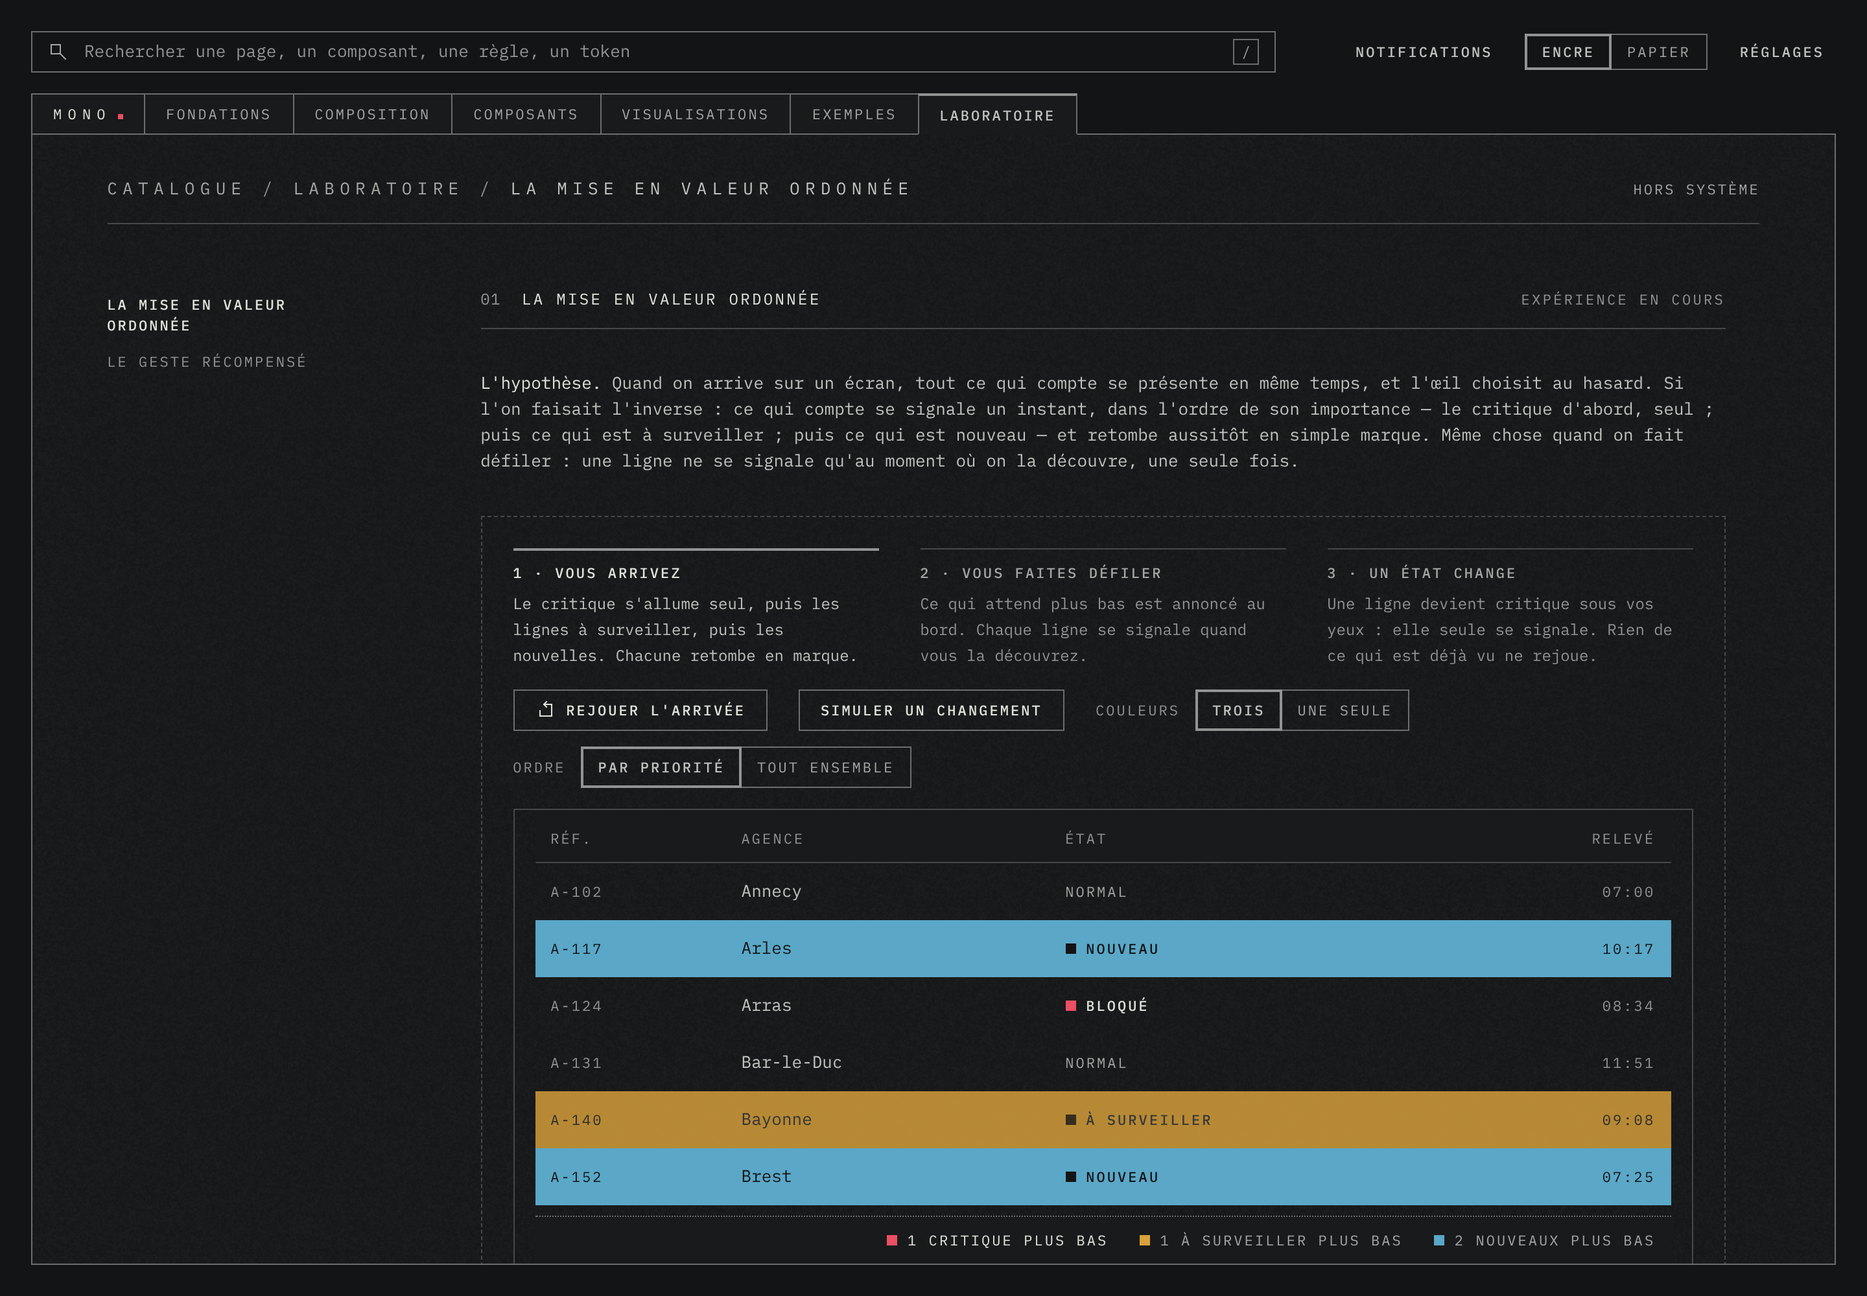
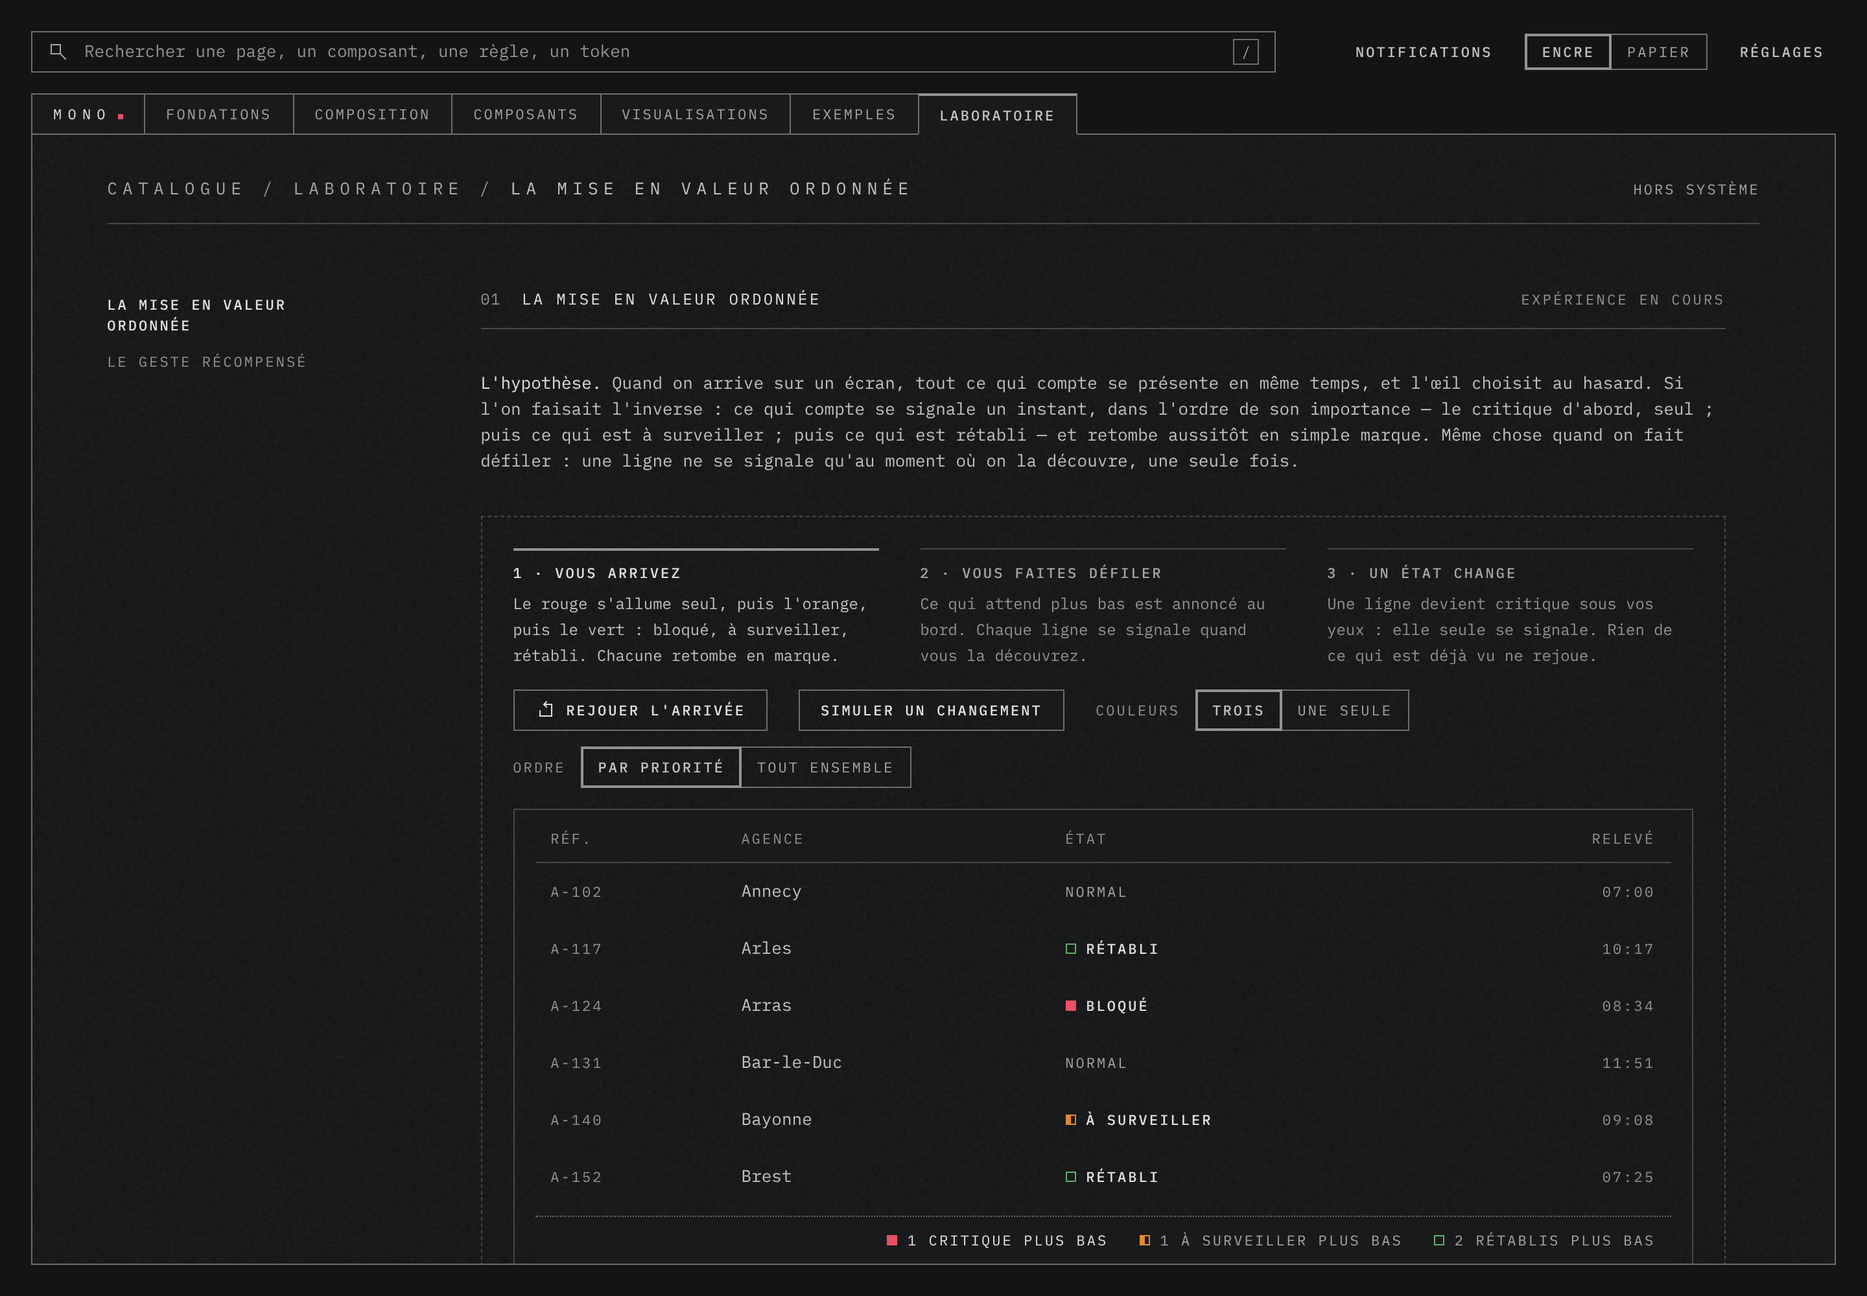
Laboratoire, expérience 01 : rouge, orange, vert (D-097)
Le langage du feu tricolore ; le troisième niveau devient « rétabli ». La forme
double la couleur dans tous les réglages. Niveaux espacés d'une seconde.

Claude-Session: https://claude.ai/code/session_01Jzhjh4Bm92CMpkoPPaRiQr

Changed region(s): [[0.2812, 0.837, 0.9062, 0.93], [0.2812, 0.713, 0.9062, 0.775], [0.2812, 0.465, 0.4688, 0.527]]

diff --git a/catalogue/laboratoire.html b/catalogue/laboratoire.html
@@ -35,12 +35,12 @@
 
         <section class="cat-section" id="mise-en-valeur" data-search="rubrique">
           <h2 class="c-section-head"><span class="c-section-head__num">01</span><span>La mise en valeur ordonnée</span><span class="c-section-head__aside">Expérience en cours</span></h2>
-          <p><span class="t-strong">L'hypothèse.</span> Quand on arrive sur un écran, tout ce qui compte se présente en même temps, et l'œil choisit au hasard. Si l'on faisait l'inverse : ce qui compte se signale un instant, dans l'ordre de son importance — le critique d'abord, seul ; puis ce qui est à surveiller ; puis ce qui est nouveau — et retombe aussitôt en simple marque. Même chose quand on fait défiler : une ligne ne se signale qu'au moment où on la découvre, une seule fois.</p>
+          <p><span class="t-strong">L'hypothèse.</span> Quand on arrive sur un écran, tout ce qui compte se présente en même temps, et l'œil choisit au hasard. Si l'on faisait l'inverse : ce qui compte se signale un instant, dans l'ordre de son importance — le critique d'abord, seul ; puis ce qui est à surveiller ; puis ce qui est rétabli — et retombe aussitôt en simple marque. Même chose quand on fait défiler : une ligne ne se signale qu'au moment où on la découvre, une seule fois.</p>
 
           <div class="cat-demo">
             <div class="x-stage" id="x1" data-colors="trois" data-order="priorite">
               <ol class="x-steps">
-                <li class="is-on"><b>1 · Vous arrivez</b>Le critique s'allume seul, puis les lignes à surveiller, puis les nouvelles. Chacune retombe en marque.</li>
+                <li class="is-on"><b>1 · Vous arrivez</b>Le rouge s'allume seul, puis l'orange, puis le vert : bloqué, à surveiller, rétabli. Chacune retombe en marque.</li>
                 <li><b>2 · Vous faites défiler</b>Ce qui attend plus bas est annoncé au bord. Chaque ligne se signale quand vous la découvrez.</li>
                 <li><b>3 · Un état change</b>Une ligne devient critique sous vos yeux : elle seule se signale. Rien de ce qui est déjà vu ne rejoue.</li>
               </ol>
@@ -63,10 +63,10 @@
 
           <dl class="x-research">
             <dt>État de l'art</dt><dd>Le <a href="https://www.oreilly.com/library/view/ajax-design-patterns/0596101805/ch16.html">« fondu jaune »</a> des débuts d'Ajax fait déjà cela pour un changement : une teinte vive qui retombe, le temps que l'œil se pose. La pratique le recommande ; je n'ai pas trouvé d'étude contrôlée qui en mesure l'effet.</dd>
-            <dt>Couleur par priorité</dt><dd>Les salles de contrôle (<a href="https://blog.isa.org/the-high-performance-hmi">interfaces « haute performance »</a>) travaillent sur fond gris et réservent la couleur vive à l'anormal, avec une teinte par niveau d'alarme. Les sources consultées ne s'accordent pas sur les teintes ; l'ordre retenu ici — rouge, ambre, bleu froid — est un choix, pas une norme.</dd>
+            <dt>Couleur par priorité</dt><dd>Les salles de contrôle (<a href="https://blog.isa.org/the-high-performance-hmi">interfaces « haute performance »</a>) travaillent sur fond gris et réservent la couleur vive à l'anormal, avec une teinte par niveau d'alarme. Les sources consultées ne s'accordent pas sur les teintes de chaque niveau. L'essai prend le langage le plus répandu, celui du feu tricolore : rouge pour ce qui bloque, orange pour ce qui est à surveiller, vert pour ce qui est rétabli.</dd>
             <dt>Ce qui est nouveau ici</dt><dd>L'ordre dans le temps. Les teintes ne s'allument pas ensemble : la priorité se lit d'abord par qui passe en premier. Et l'annonce au bord de ce qui attend hors de vue, dans le même ordre.</dd>
-            <dt>Ce qu'on regarde</dt><dd>Trouve-t-on le critique plus vite « par priorité » que « tout ensemble » ? Trois couleurs aident-elles, ou l'ordre et la forme (plein, à demi, contour) suffisent-ils avec une seule ? À quel moment le flash répété devient-il une gêne ?</dd>
-            <dt>Garde-fous</dt><dd>Un flash par ligne, jamais rejoué ; pas plus d'un par seconde et par niveau ; aucun flash si le système demande de réduire les animations — les marques s'affichent d'emblée. La couleur est toujours doublée d'un mot.</dd>
+            <dt>Ce qu'on regarde</dt><dd>Trouve-t-on le critique plus vite « par priorité » que « tout ensemble » ? Trois couleurs aident-elles, ou l'ordre et la forme suffisent-ils avec une seule ? Le vert, une bonne nouvelle, mérite-t-il d'être signalé ou distrait-il du reste ? À quel moment le flash répété devient-il une gêne ?</dd>
+            <dt>Garde-fous</dt><dd>Un flash par ligne, jamais rejoué ; pas plus d'un par seconde et par niveau ; aucun flash si le système demande de réduire les animations — les marques s'affichent d'emblée. La couleur est toujours doublée d'un mot et d'une forme — plein, à demi, contour — car une personne sur douze environ distingue mal le rouge du vert.</dd>
             <dt>Règle enfreinte</dt><dd>« Une seule couleur ». C'est l'objet de l'essai ; le réglage « Une seule » montre la version qui resterait dans la règle.</dd>
           </dl>
         </section>

diff --git a/catalogue/assets/labo.css b/catalogue/assets/labo.css
@@ -2,8 +2,9 @@
    Les classes .x- et les couleurs --x- vivent dans cette page et n'en sortent pas : une expérience
    peut enfreindre une règle de MONO (ici : plus d'une couleur), c'est même son objet. Pour entrer dans
    le système, une idée passe par docs/decisions.md et se réécrit avec les rôles de tokens.css. */
-:root { --x-ink: #131415; --x-p1: var(--signal); --x-p2: #d9a13b; --x-p3: #5aa7c7; --x-on-p1: var(--on-signal); }
-:root[data-theme="papier"] { --x-p2: #c98a1b; --x-p3: #3f8fb0; }
+/* Le langage du feu tricolore : rouge, orange, vert. */
+:root { --x-ink: #131415; --x-p1: var(--signal); --x-p2: #e08a2c; --x-p3: #5fae6a; --x-on-p1: var(--on-signal); }
+:root[data-theme="papier"] { --x-p2: #c9700f; --x-p3: #3f8f52; }
 .x-stage { display: flex; flex-direction: column; gap: var(--space-4); min-width: 0; }
 .x-bar { display: flex; flex-wrap: wrap; align-items: center; gap: var(--space-3) var(--space-5); }
 .x-bar__group { display: inline-flex; align-items: center; gap: var(--space-3); }
@@ -30,9 +31,10 @@
 .x-state { display: inline-flex; align-items: center; gap: var(--space-2); text-transform: uppercase; letter-spacing: var(--track-caps); font-size: var(--text-micro); color: var(--fg-soft); }
 .x-row[data-p] .x-state { color: var(--fg-strong); font-weight: var(--weight-medium); }
 .x-row[data-p] .x-state::before { content: ''; width: 8px; height: 8px; background: var(--x-c); }
-/* En une seule couleur, la priorité se dit encore par la forme : plein, à demi, contour. */
-.x-stage[data-colors="une"] .x-row[data-p="2"] .x-state::before { background: linear-gradient(90deg, var(--x-c) 50%, transparent 50%); outline: 1px solid var(--x-c); outline-offset: -1px; }
-.x-stage[data-colors="une"] .x-row[data-p="3"] .x-state::before { background: none; outline: 1px solid var(--x-c); outline-offset: -1px; }
+/* La forme double toujours la couleur — plein, à demi, contour — pour qui confond le rouge et le vert,
+   et pour le réglage « une seule ». */
+.x-row[data-p="2"] .x-state::before { background: linear-gradient(90deg, var(--x-c) 50%, transparent 50%); outline: 1px solid var(--x-c); outline-offset: -1px; }
+.x-row[data-p="3"] .x-state::before { background: none; outline: 1px solid var(--x-c); outline-offset: -1px; }
 /* Tant qu'une ligne n'a pas été « vue », sa marque attend ; le flash la révèle, puis elle reste. */
 .x-row[data-p]:not(.x-seen):not(.x-flash) .x-state { opacity: 0; }
 @keyframes x-fill { 0%, 55% { background-color: var(--x-c); color: var(--x-on); } 100% { background-color: transparent; } }
@@ -44,7 +46,8 @@
 /* Ce qui attend hors de vue s'annonce au bord, dans l'ordre de priorité. */
 .x-below { position: sticky; bottom: 0; display: flex; gap: var(--space-5); justify-content: flex-end; padding: var(--space-2) var(--space-3); background: var(--bg); border-top: var(--hairline) dotted var(--line-strong); text-transform: uppercase; letter-spacing: var(--track-caps); font-size: var(--text-micro); color: var(--fg-soft); }
 .x-below:empty { display: none; }
-.x-below span { display: inline-flex; align-items: center; gap: var(--space-2); } .x-below span::before { content: ''; width: 8px; height: 8px; background: var(--x-c); }
+.x-below span { display: inline-flex; align-items: center; gap: var(--space-2); } .x-below span::before { content: ''; width: 8px; height: 8px; background: var(--x-c); outline: 1px solid var(--x-c); outline-offset: -1px; }
+.x-below [data-p="2"]::before { background: linear-gradient(90deg, var(--x-c) 50%, transparent 50%); } .x-below [data-p="3"]::before { background: none; }
 .x-below [data-p="1"] { --x-c: var(--x-p1); color: var(--fg-strong); } .x-below [data-p="2"] { --x-c: var(--x-p2); } .x-below [data-p="3"] { --x-c: var(--x-p3); }
 .x-stage[data-colors="une"] .x-below [data-p] { --x-c: var(--x-p1); }
 .x-read { display: flex; flex-wrap: wrap; gap: var(--space-2) var(--space-6); text-transform: uppercase; letter-spacing: var(--track-caps); font-size: var(--text-micro); color: var(--fg-muted); } .x-read b { color: var(--fg-strong); font-weight: var(--weight-medium); }

diff --git a/catalogue/assets/search-index.js b/catalogue/assets/search-index.js
@@ -203,7 +203,7 @@ window.MonoSearchIndex = {"pages":[["index.html","Présentation"],["fondations.h
 {"p":4,"id":"cretes","y":"rubrique","t":"Crêtes","c":"","s":"","k":".c-section-head .c-section-head__aside .c-section-head__num .v-figure .v-figure__caption .v-figure__source .v-figure__title","x":"En un an, la pointe d’appels est passée du matin à l’après-midi Appels par heure, un profil par mois Source : données de démonstration Une courbe par rangée, chacune masquant la précédente. On ne lit pas des valeurs, on lit un relief : où est le sommet, comment il se déplace. Douze rangées ou plus, là où douze courbes superposées seraient illisibles. La dernière rangée est en clair ; son sommet porte le signal."},
 {"p":4,"id":"frise","y":"rubrique","t":"Frise","c":"","s":"","k":".c-section-head .c-section-head__aside .c-section-head__num .v-figure .v-figure__caption .v-figure__source .v-figure__title","x":"La plupart des agences tiennent entre quatre et huit millions Primes par agence — un trait par agence Source : données de démonstration Chaque valeur est un trait sur une règle, comme sur une étiquette technique. On voit les amas, les trous et les isolés — ce qu'une moyenne ou un histogramme cache. La médiane est entre crochets ; un seul trait porte le signal."},
 {"p":4,"id":"tendance","y":"rubrique","t":"Tendance","c":"","s":"","k":".c-section-head .c-section-head__aside .c-section-head__num .c-table","x":"Branche Douze mois Indice Non-vie 115 Marché 105 Vie 62 Une courbe sans axe ni chiffre, à la hauteur d'une ligne de texte. Elle donne l'allure ; la valeur est dans la colonne voisine."},
-{"p":5,"id":"mise-en-valeur","y":"rubrique","t":"La mise en valeur ordonnée","c":"","s":"","k":".c-button .c-icon .c-section-head .c-section-head__aside .c-section-head__num .c-segmented .c-segmented__item .t-strong","x":"L'hypothèse. Quand on arrive sur un écran, tout ce qui compte se présente en même temps, et l'œil choisit au hasard. Si l'on faisait l'inverse : ce qui compte se signale un instant, dans l'ordre de son importance — le critique d'abord, seul ; puis ce qui est à surveiller ; puis ce qui est nouveau — et retombe aussitôt en simple marque. Même chose quand on fait défiler : une ligne ne se signale qu'au moment où on la d"},
+{"p":5,"id":"mise-en-valeur","y":"rubrique","t":"La mise en valeur ordonnée","c":"","s":"","k":".c-button .c-icon .c-section-head .c-section-head__aside .c-section-head__num .c-segmented .c-segmented__item .t-strong","x":"L'hypothèse. Quand on arrive sur un écran, tout ce qui compte se présente en même temps, et l'œil choisit au hasard. Si l'on faisait l'inverse : ce qui compte se signale un instant, dans l'ordre de son importance — le critique d'abord, seul ; puis ce qui est à surveiller ; puis ce qui est rétabli — et retombe aussitôt en simple marque. Même chose quand on fait défiler : une ligne ne se signale qu'au moment où on la d"},
 {"p":5,"id":"geste-recompense","y":"rubrique","t":"Le geste récompensé","c":"","s":"","k":".c-button .c-icon .c-section-head .c-section-head__aside .c-section-head__num .c-segmented .c-segmented__item .t-strong","x":"L'hypothèse. Une interface sobre peut encore faire plaisir à manier. Chaque geste qui aboutit — cocher, arriver au bout d'un texte, ouvrir une rubrique, tout finir — reçoit en retour un petit mouvement net, plus généreux que le geste ne l'exige, mais bref, typographique et sans couleur. Et la récompense s'use : répétée, elle s'abrège, pour ne jamais devenir une attente. Récompenses Avec Sans Recommencer 0 geste Clôtu"},
 {"p":1,"id":"tons","y":"token","t":"--tone-0","c":"","s":"Tons","k":"--tone-0","x":"#131415"},
 {"p":1,"id":"tons","y":"token","t":"--tone-1","c":"","s":"Tons","k":"--tone-1","x":"#191a1b"},

diff --git a/catalogue/assets/labo.js b/catalogue/assets/labo.js
@@ -11,18 +11,18 @@
   // ===== Expérience 01 — la mise en valeur ordonnée ==========================
   (() => { const stage = document.getElementById('x1'); if (!stage) return;
     const box = $('.x-scroll', stage), body = $('tbody', stage), below = $('.x-below', stage), read = $('.x-read', stage), steps = $$('.x-steps li', stage);
-    const NAMES = { 1: ['Bloqué', 'critique', 'critiques'], 2: ['À surveiller', 'à surveiller', 'à surveiller'], 3: ['Nouveau', 'nouveau', 'nouveaux'] };
+    const NAMES = { 1: ['Bloqué', 'critique', 'critiques'], 2: ['À surveiller', 'à surveiller', 'à surveiller'], 3: ['Rétabli', 'rétabli', 'rétablis'] };
     const BASE = [['A-102', 'Annecy', 0], ['A-117', 'Arles', 3], ['A-124', 'Arras', 1], ['A-131', 'Bar-le-Duc', 0], ['A-140', 'Bayonne', 2], ['A-152', 'Brest', 3], ['A-166', 'Carcassonne', 0], ['A-173', 'Chartres', 0], ['A-181', 'Colmar', 0], ['A-195', 'Dax', 2], ['A-203', 'Lorient', 0], ['A-214', 'Narbonne', 1], ['A-226', 'Tarbes', 0], ['A-238', 'Vizille', 3], ['A-241', 'Valence', 0], ['A-257', 'Vannes', 3]];
     let rows = [], timers = [], io = null, pending = new Set(), batch = null;
     const step = (n) => steps.forEach((s, i) => s.classList.toggle('is-on', i === n));
     const flash = (tr, delay) => timers.push(setTimeout(() => { if (still) { tr.classList.add('x-seen'); report(); return; } tr.classList.add('x-flash'); tr.addEventListener('animationend', () => { tr.classList.remove('x-flash'); tr.classList.add('x-seen'); report(); }, { once: true }); }, delay));
     // L'ordre : la priorité 1 d'abord, seule ; puis la 2 ; puis la 3. « Ensemble » sert de témoin.
     const reveal = (list) => { const ordered = stage.dataset.order !== 'ensemble'; const ps = [...new Set(list.map((tr) => +tr.dataset.p))].sort();
-      list.forEach((tr) => { tr.dataset.queued = '1'; flash(tr, ordered ? ps.indexOf(+tr.dataset.p) * 750 : 0); }); };
+      list.forEach((tr) => { tr.dataset.queued = '1'; flash(tr, ordered ? ps.indexOf(+tr.dataset.p) * 1000 : 0); }); };
     const report = () => { const marked = rows.filter((tr) => tr.dataset.p), seen = marked.filter((tr) => tr.classList.contains('x-seen')).length;
       const edge = box.getBoundingClientRect().bottom - 30, hidden = marked.filter((tr) => !tr.dataset.queued && tr.getBoundingClientRect().top > edge);
       below.innerHTML = [1, 2, 3].map((p) => { const n = hidden.filter((tr) => +tr.dataset.p === p).length; return n ? `<span data-p="${p}">${n} ${NAMES[p][n > 1 ? 2 : 1]} plus bas</span>` : ''; }).join('');
-      read.innerHTML = `<span>Vu <b>${seen}</b> sur <b>${marked.length}</b></span><span>${marked.filter((tr) => tr.dataset.p === '1').length} critiques · ${marked.filter((tr) => tr.dataset.p === '2').length} à surveiller · ${marked.filter((tr) => tr.dataset.p === '3').length} nouveaux</span>`; };
+      read.innerHTML = `<span>Vu <b>${seen}</b> sur <b>${marked.length}</b></span><span>${marked.filter((tr) => tr.dataset.p === '1').length} critiques · ${marked.filter((tr) => tr.dataset.p === '2').length} à surveiller · ${marked.filter((tr) => tr.dataset.p === '3').length} rétablis</span>`; };
     const build = () => { timers.forEach(clearTimeout); timers = []; io?.disconnect(); pending.clear(); box.scrollTop = 0;
       body.innerHTML = BASE.map(([ref, name, p], i) => `<tr class="x-row"${p ? ` data-p="${p}"` : ''}><td>${ref}</td><td>${name}</td><td><span class="x-state">${p ? NAMES[p][0] : 'Normal'}</span></td><td>${String(7 + (i * 3) % 5).padStart(2, '0')}:${String((i * 17) % 60).padStart(2, '0')}</td></tr>`).join('');
       rows = $$('.x-row', body); step(0); report();

diff --git a/docs/decisions.md b/docs/decisions.md
@@ -116,7 +116,8 @@ Les principes eux-mêmes sont dans `philosophie.md` ; ici, c'est leur histoire.
 | D-093 | Trois nouvelles animations d’après les références | en vigueur |
 | D-094 | Catalogue : le logo est le premier onglet | en vigueur |
 | D-095 | Composants : une rubrique « Échanges » | en vigueur |
-| D-096 | Un laboratoire, hors système | en vigueur |
+| D-096 | Un laboratoire, hors système | en vigueur, les teintes de l'expérience 01 changées par D-097 |
+| D-097 | Laboratoire, expérience 01 : rouge, orange, vert | en vigueur |
 
 ---
 
@@ -904,3 +905,10 @@ Les principes eux-mêmes sont dans `philosophie.md` ; ici, c'est leur histoire.
 - **Expérience 02 — le geste récompensé** : un geste qui aboutit reçoit un mouvement bref (160 à 320 ms), typographique, sans couleur — une case qui se pose, un filet qui se tire, un mot qui se compose, un cachet. La récompense s'use : après trois gestes, elle dure moitié moins. Se compare « avec » et « sans ».
 - **Garde-fous communs** : rien ne joue si le système demande de réduire les animations ; aucun mouvement ne retarde une action.
 - **Statut des expériences** : en cours, sans verdict. Aucune n'est dans le système.
+
+## D-097 — Laboratoire, expérience 01 : rouge, orange, vert
+
+- **Date** : 2026-11-13 · **Statut** : en vigueur · **Demandée par** : le commanditaire · **Amende** : D-096 (teintes de l'expérience 01)
+- **Décision** : les trois priorités prennent le langage du feu tricolore, plus universel que rouge, ambre, bleu : rouge pour ce qui bloque, orange pour ce qui est à surveiller, vert pour ce qui est rétabli. Le troisième niveau change donc de sens : il n'annonce plus du « nouveau » mais une bonne nouvelle.
+- **Conséquence** : la forme double la couleur dans tous les réglages — plein, à demi, contour —, parce que rouge et vert sont la paire que l'on confond le plus.
+- **Toujours hors système** : ces teintes vivent dans `catalogue/assets/labo.css` ; MONO garde une seule couleur.
